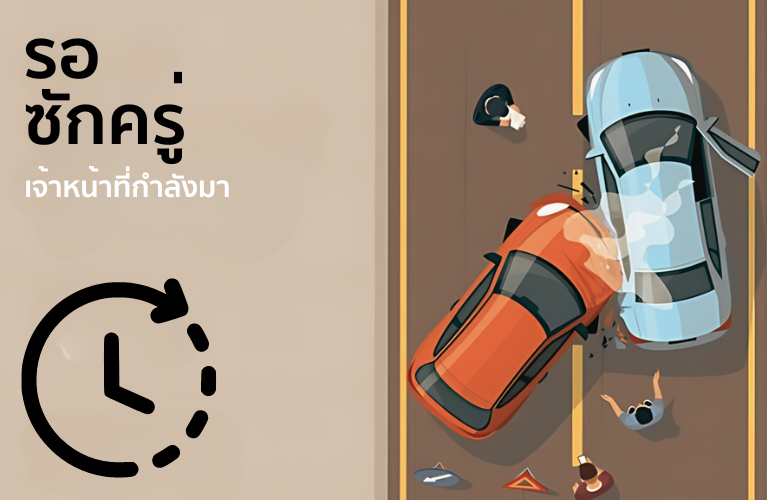
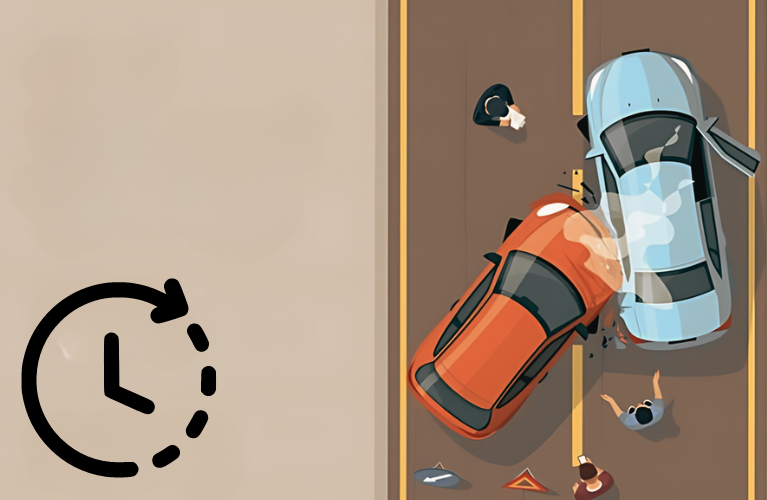
make it better

Changed region(s): [[0.03, 0.06, 0.2999, 0.39], [0.2099, 0.15, 0.2399, 0.18]]

diff --git a/components/Content/Insurance.vue b/components/Content/Insurance.vue
@@ -10,20 +10,24 @@
 </script>
 
 <template>
-  <div class="d-flex justify-content-center bg-car-insurance">
+  <div class="d-flex justify-content-center bg-car-insurance px-2">
     <div class="row d-flex justify-content-center set-max-width w-100 bg-car-insurance">
-
+        <div class="col-12">
+          </div>
         <div class="col-md-4 col-12 d-flex align-items-center justify-content-center">
-          <div class="w-100 bg-light-green p-4 h-100 position-relative" style="min-height:500px;">
-            <div class="row">
-              <div class="col-12 px-3">
+          <div class="w-100 bg-light-green h-100 position-relative p-0 m-0 border" style="min-height:500px;">
+            <div class="row ">
+              <div class="col-12 padding-added " >
                 <h2 class="text-333" style="font-size:1.5em;">ฟรี ประกันภัยชั้น 1</h2>
                 <p class="text-333" style="line-height:20px;">เมื่อเช่ารถกับเรา คุณสามารถขับขี่ได้อย่างมั่นใจด้วยประกันภัยที่ครอบคลุม ในกรณีเกิดอุบัติเหตุ คุณไม่ต้องกังวล เพราะเรามีบริการช่วยเหลือฉุกเฉิน 24 ชั่วโมงพร้อมดูแลคุณทุกสถานการณ์ ไม่ว่าจะเป็นการซ่อมแซมรถ การจัดหารถทดแทน หรือการประสานงานกับคู่กรณี เราดูแลทุกขั้นตอนเพื่อให้คุณเดินทางต่อได้อย่างราบรื่น </p>
               </div>
-              <div class="col-12 px-3">
+              <div class="col-12">
+
                 <img :src="`${config.public.baseURL}/images/car_insurance1.jpg`"  class="img-fluid"/>
+               
               </div>
-              <div class="col-12 p-3 ">
+              <div class="col-12 padding-added" >
+              
                 <h2 class="text-333" style="font-size:1.5em;">01 โทรหาเจ้าหน้าที่เรา</h2>
                 <p class="text-333 position-relative" style="line-height:16px;font-size:0.8em;z-index:1">
                   ในกรณีเกิดอุบัติเหตุ การติดต่อเจ้าหน้าที่ของเราคือขั้นตอนแรกและสำคัญที่สุด เพียงกดหมายเลขฉุกเฉินที่เราให้ไว้ คุณจะได้รับการช่วยเหลือทันที ทีมงานผู้เชี่ยวชาญของเราจะรับฟังสถานการณ์ของคุณอย่างละเอียด พร้อมให้คำแนะนำที่เหมาะสมและชัดเจน ไม่ว่าจะเป็นการปฐมพยาบาลเบื้องต้น การประสานงานกับตำรวจ หรือการจัดการกับยานพาหนะที่เสียหาย เราพร้อมเป็นผู้ช่วยที่เชื่อถือได้ในทุกขั้นตอน เพื่อให้คุณรู้สึกปลอดภัยและได้รับการดูแลอย่างดีที่สุดในช่วงเวลาที่ยากลำบาก
@@ -33,20 +37,30 @@
             </div>
           </div>
         </div>
-        <div class="col-md-4 col-12 d-flex align-items-center justify-content-center">
-          <div class="w-100 bg-car-insurance p-3 h-100" style="min-height:500px;">
-            <div class="row ">
-              <div class="col-12 px-3">
-                <img :src="`images/car_insurance3.png`"  class="img-fluid"/>
+        <div class="col-md-8 col-12 d-flex align-items-center justify-content-center p-0">
+          <div class="w-100 bg-car-insurance h-100 " style="min-height:500px;">
+            <div class="row">
+              <div class="col-12 p-0 ">
+               
+                <div class="background " >
+                  <div class="background-content p-3">
+                    <h2 class="position-absolute" style="font-size:3em;">กรณีเกิดเหตุ</h2>
+                  </div>
+                    
+                </div>
               </div>
               <div class="col-12 p-3 position-relative">
-                <h2 class="text-333" style="font-size:1.5em;">02 รอเจ้าหน้าที่ประกันภัย</h2>
-                <p class="text-333 position-relative" style="line-height:16px;font-size:0.8em;z-index:1">
+                <h2 class="text-333 pb-0 m-0" style="font-size:1.5em;">01 รอเจ้าหน้าที่ประกันภัย</h2>
+                <p class="text-333 position-relative pt-1" style="line-height:20px;">
                   เมื่อเกิดอุบัติเหตุ เจ้าหน้าที่ประกันภัยของเราจะมาถึงที่เกิดเหตุโดยเร็ว เพื่อประเมินสถานการณ์และเก็บข้อมูล ระหว่างรอ โปรดอยู่ในที่ปลอดภัยและปฏิบัติตามคำแนะนำของเจ้าหน้าที่ ทีมงานของเราจะบันทึกหลักฐานและประสานงานกับทุกฝ่าย เพื่อปกป้องสิทธิของท่าน
                 </p>
               </div>
-              <div class="col-12 px-3">
-                <img :src="`images/car_insurance4.png`"  class="img-fluid"/>
+              <div class="col-12 p-0 ">
+                <div class="background4 " >
+                  <div class="background-content p-3">
+                  </div>
+                    
+                </div>
               </div>
               <div class="col-12 p-3 position-relative">
                 <h2 class="text-333" style="font-size:1.5em;">01 โทรหาเจ้าหน้าที่เรา</h2>
@@ -57,38 +71,43 @@
             </div>
           </div>
         </div>
-        <div class="col-md-4 col-12 d-flex align-items-center justify-content-center">
-          <div class="w-100 bg-car-insurance p-3 h-100 position-relative" style="min-height:500px;">
-            <div class="row ">
-            
-              <div class="col-12 p-3 position-relative">
-                <h2 class="text-333" style="font-size:1.5em;">02 รอเจ้าหน้าที่ประกันภัย</h2>
-                <p class="text-333 position-relative" style="line-height:16px;font-size:0.8em;z-index:1">
-                  เมื่อเกิดอุบัติเหตุ เจ้าหน้าที่ประกันภัยของเราจะมาถึงที่เกิดเหตุโดยเร็ว เพื่อประเมินสถานการณ์และเก็บข้อมูล ระหว่างรอ โปรดอยู่ในที่ปลอดภัยและปฏิบัติตามคำแนะนำของเจ้าหน้าที่ ทีมงานของเราจะบันทึกหลักฐานและประสานงานกับทุกฝ่าย เพื่อปกป้องสิทธิของท่าน
-                </p>
-              </div>
-           
-              <div class="col-12 p-3 position-relative">
-                <h2 class="text-333" style="font-size:1.5em;">01 โทรหาเจ้าหน้าที่เรา</h2>
-                <p class="text-333 position-relative" style="line-height:16px;font-size:0.8em;z-index:1">
-                  เมื่อเกิดอุบัติเหตุ เจ้าหน้าที่ประกันภัยของเราจะมาถึงที่เกิดเหตุโดยเร็ว เพื่อประเมินสถานการณ์และเก็บข้อมูล ระหว่างรอ โปรดอยู่ในที่ปลอดภัยและปฏิบัติตามคำแนะนำของเจ้าหน้าที่ ทีมงานของเราจะบันทึกหลักฐานและประสานงานกับทุกฝ่าย เพื่อปกป้องสิทธิของท่าน
-                </p>
-              </div>
-              <div class="col-12 px-3">
-                <img :src="`images/car_insurance5.png`"  class="img-fluid"/>
-              </div>
-              
-            </div>
-            <i class="bi bi-cone-striped position-absolute" style="font-size:9em;right:0;bottom:0;color:#F7CAA6;z-index:0"></i>
-
-          </div>
-         
-        </div>
+      
     </div>
   </div>
 </template>
 
 <style scoped>
+.background {
+  background-image: url('/images/car_insurance3.png');
+  background-size: cover;
+  background-position: center;
+  background-repeat: no-repeat;
+  width: 100%;
+  height: 0;
+  padding-top:65%; /* Aspect ratio 16:9 */
+  position: relative;
+}
+.background4 {
+  background-image: url('/images/car_insurance4.png');
+  background-size: cover;
+  background-position: center;
+  background-repeat: no-repeat;
+  width: 100%;
+  height: 0;
+  padding-top:65%; /* Aspect ratio 16:9 */
+  position: relative;
+}
+.background-content {
+  position: absolute;
+  top: 0;
+  left: 0;
+  right: 0;
+  bottom: 0;
+}
+.padding-added{
+  padding-left:50px;padding-right:50px;padding-top:30px;
+  padding-bottom:30px;
+}
 .set-max-width {
   max-width: 1024px;
 }

diff --git a/components/Content/AccidentText.vue b/components/Content/AccidentText.vue
@@ -1,0 +1,186 @@
+<template>
+  <div class="py-4 d-flex flex-column justify-content-center w-100 m-auto ">
+    <div class="row ">
+      <div class="col-12 text-center">
+        <div class='marquees bg-dark'>
+          <section class='marquee' style='--char-count: 28'>
+            <div class='marquee--inner'>
+              <p>You have brains in your head</p>
+              <p aria-hidden='true'>You have brains in your head</p>
+              <p aria-hidden='true'>You have brains in your head</p>
+              <p aria-hidden='true'>You have brains in your head</p>
+              <p aria-hidden='true'>You have brains in your head</p>
+              <p aria-hidden='true'>You have brains in your head</p>
+            </div>
+          </section>
+
+          <div class='marquee' style='--char-count: 30'>
+            <div class='marquee--inner'>
+              <p>You have feet in your shoes</p>
+              <p aria-hidden='true'>You have feet in your shoes</p>
+              <p aria-hidden='true'>You have feet in your shoes</p>
+              <p aria-hidden='true'>You have feet in your shoes</p>
+              <p aria-hidden='true'>You have feet in your shoes</p>
+              <p aria-hidden='true'>You have feet in your shoes</p>
+            </div>
+          </div>
+
+          <section class='marquee' style='--char-count: 22'>
+            <div class='marquee--inner'>
+              <p>You can steer yourself</p>
+              <p aria-hidden='true'>You can steer yourself</p>
+              <p aria-hidden='true'>You can steer yourself</p>
+              <p aria-hidden='true'>You can steer yourself</p>
+              <p aria-hidden='true'>You can steer yourself</p>
+              <p aria-hidden='true'>You can steer yourself</p>
+            </div>
+          </section>
+
+          <section class='marquee' style='--char-count: 24'>
+            <div class='marquee--inner'>
+              <p>Any direction you choose</p>
+              <p aria-hidden='true'>Any direction you choose</p>
+              <p aria-hidden='true'>Any direction you choose</p>
+              <p aria-hidden='true'>Any direction you choose</p>
+              <p aria-hidden='true'>Any direction you choose</p>
+              <p aria-hidden='true'>Any direction you choose</p>
+            </div>
+          </section>
+        </div>
+
+      </div>
+    </div>
+  </div>
+</template>
+
+<style lang="scss" scoped>
+.marquee {
+  --marquee--colour: #f3bb0b;
+  --marquee--repeat-count: 6;
+  --marquee--base-duration: 1s;
+  --marquee--repeat-size: calc(100% / var(--marquee--repeat-count));
+  --marquee--double-size: calc(var(--marquee--repeat-size) * 2);
+  --marquee--duration: calc(var(--marquee--base-duration) * var(--char-count, 20));
+
+  overflow: hidden;
+  width: 110%;
+  margin-left: -5%;
+
+  mix-blend-mode: screen;
+  transform: rotate(-5deg);
+
+  background: var(--marquee--colour);
+  color: #000;
+
+  &:nth-child(even) {
+    --marquee--direction: -1;
+    transform: rotate(5deg);
+    background: #000;
+    color: var(--marquee--colour);
+
+    p {}
+  }
+
+  p {
+
+    transform: translateY(0.07em);
+    font-weight: bold;
+    margin: 0;
+    display: flex;
+    gap: 0.5em;
+    line-height: 1.1;
+    font-size: clamp(2.5rem, 12vw, 6.2rem);
+    font-family: "Bebas Neue", sans-serif;
+
+    &::after {
+      content: "*";
+      transform: translateY(0.175em); // visually centers with rest of text
+    }
+
+    /* An empty psuedo element creates a gap after the last element */
+    &::before {
+      content: "";
+    }
+  }
+}
+
+.marquee--inner {
+  width: max-content;
+  display: flex;
+  text-transform: uppercase;
+
+  @media (prefers-reduced-motion: no-preference) {
+    animation: marquee var(--marquee--duration) infinite linear,
+      reduce-marquee var(--marquee--duration) infinite linear paused;
+    animation-composition: add;
+
+    &:hover {
+      animation-play-state: running;
+    }
+  }
+}
+
+$to: translateX(calc(var(--marquee--double-size) * -1));
+$from: translateX(calc((-1 * var(--marquee--double-size)) - (var(--marquee--double-size) * var(--marquee--direction, 1))));
+$reduce-from: translateX(calc(var(--marquee--repeat-size) * var(--marquee--direction, 1)));
+
+@keyframes marquee {
+  from {
+    transform: $from;
+  }
+
+  to {
+    transform: $to;
+  }
+}
+
+@keyframes reduce-marquee {
+  from {
+    transform: $reduce-from;
+  }
+
+  to {
+    transfrom: $to;
+  }
+}
+
+body {
+  &::before {
+    content: "";
+    position: fixed;
+    inset: 0;
+    background-image: url(https://images.unsplash.com/photo-1505356822725-08ad25f3ffe4?q=80&w=1587&auto=format&fit=crop&ixlib=rb-4.0.3&ixid=M3wxMjA3fDB8MHxwaG90by1wYWdlfHx8fGVufDB8fHx8fA%3D%3D);
+    background-size: cover;
+    background-position: center;
+    filter: brightness(0.25);
+  }
+}
+
+body,
+html {
+  height: 100%;
+  margin: 0;
+}
+
+.marquees {
+  align-content: center;
+  height: 100%;
+  display: grid;
+  gap: 5vw;
+  overflow: hidden;
+}
+
+button {
+  position: absolute;
+  top: 20px;
+  left: 20px;
+
+  &[aria-pressed='true'] {
+    filter: invert(1);
+  }
+}
+
+[aria-pressed='true']+* .marquee--inner {
+  animation-play-state: paused !important;
+}
+</style>

diff --git a/pages/index.vue b/pages/index.vue
@@ -8,6 +8,7 @@
     <LazyContentSlowgan />
     <LazyContentHowToRent />
     <LazyContentCustomerReview />
+   
     <LazyContentInsurance />
   </div>
 </template>
